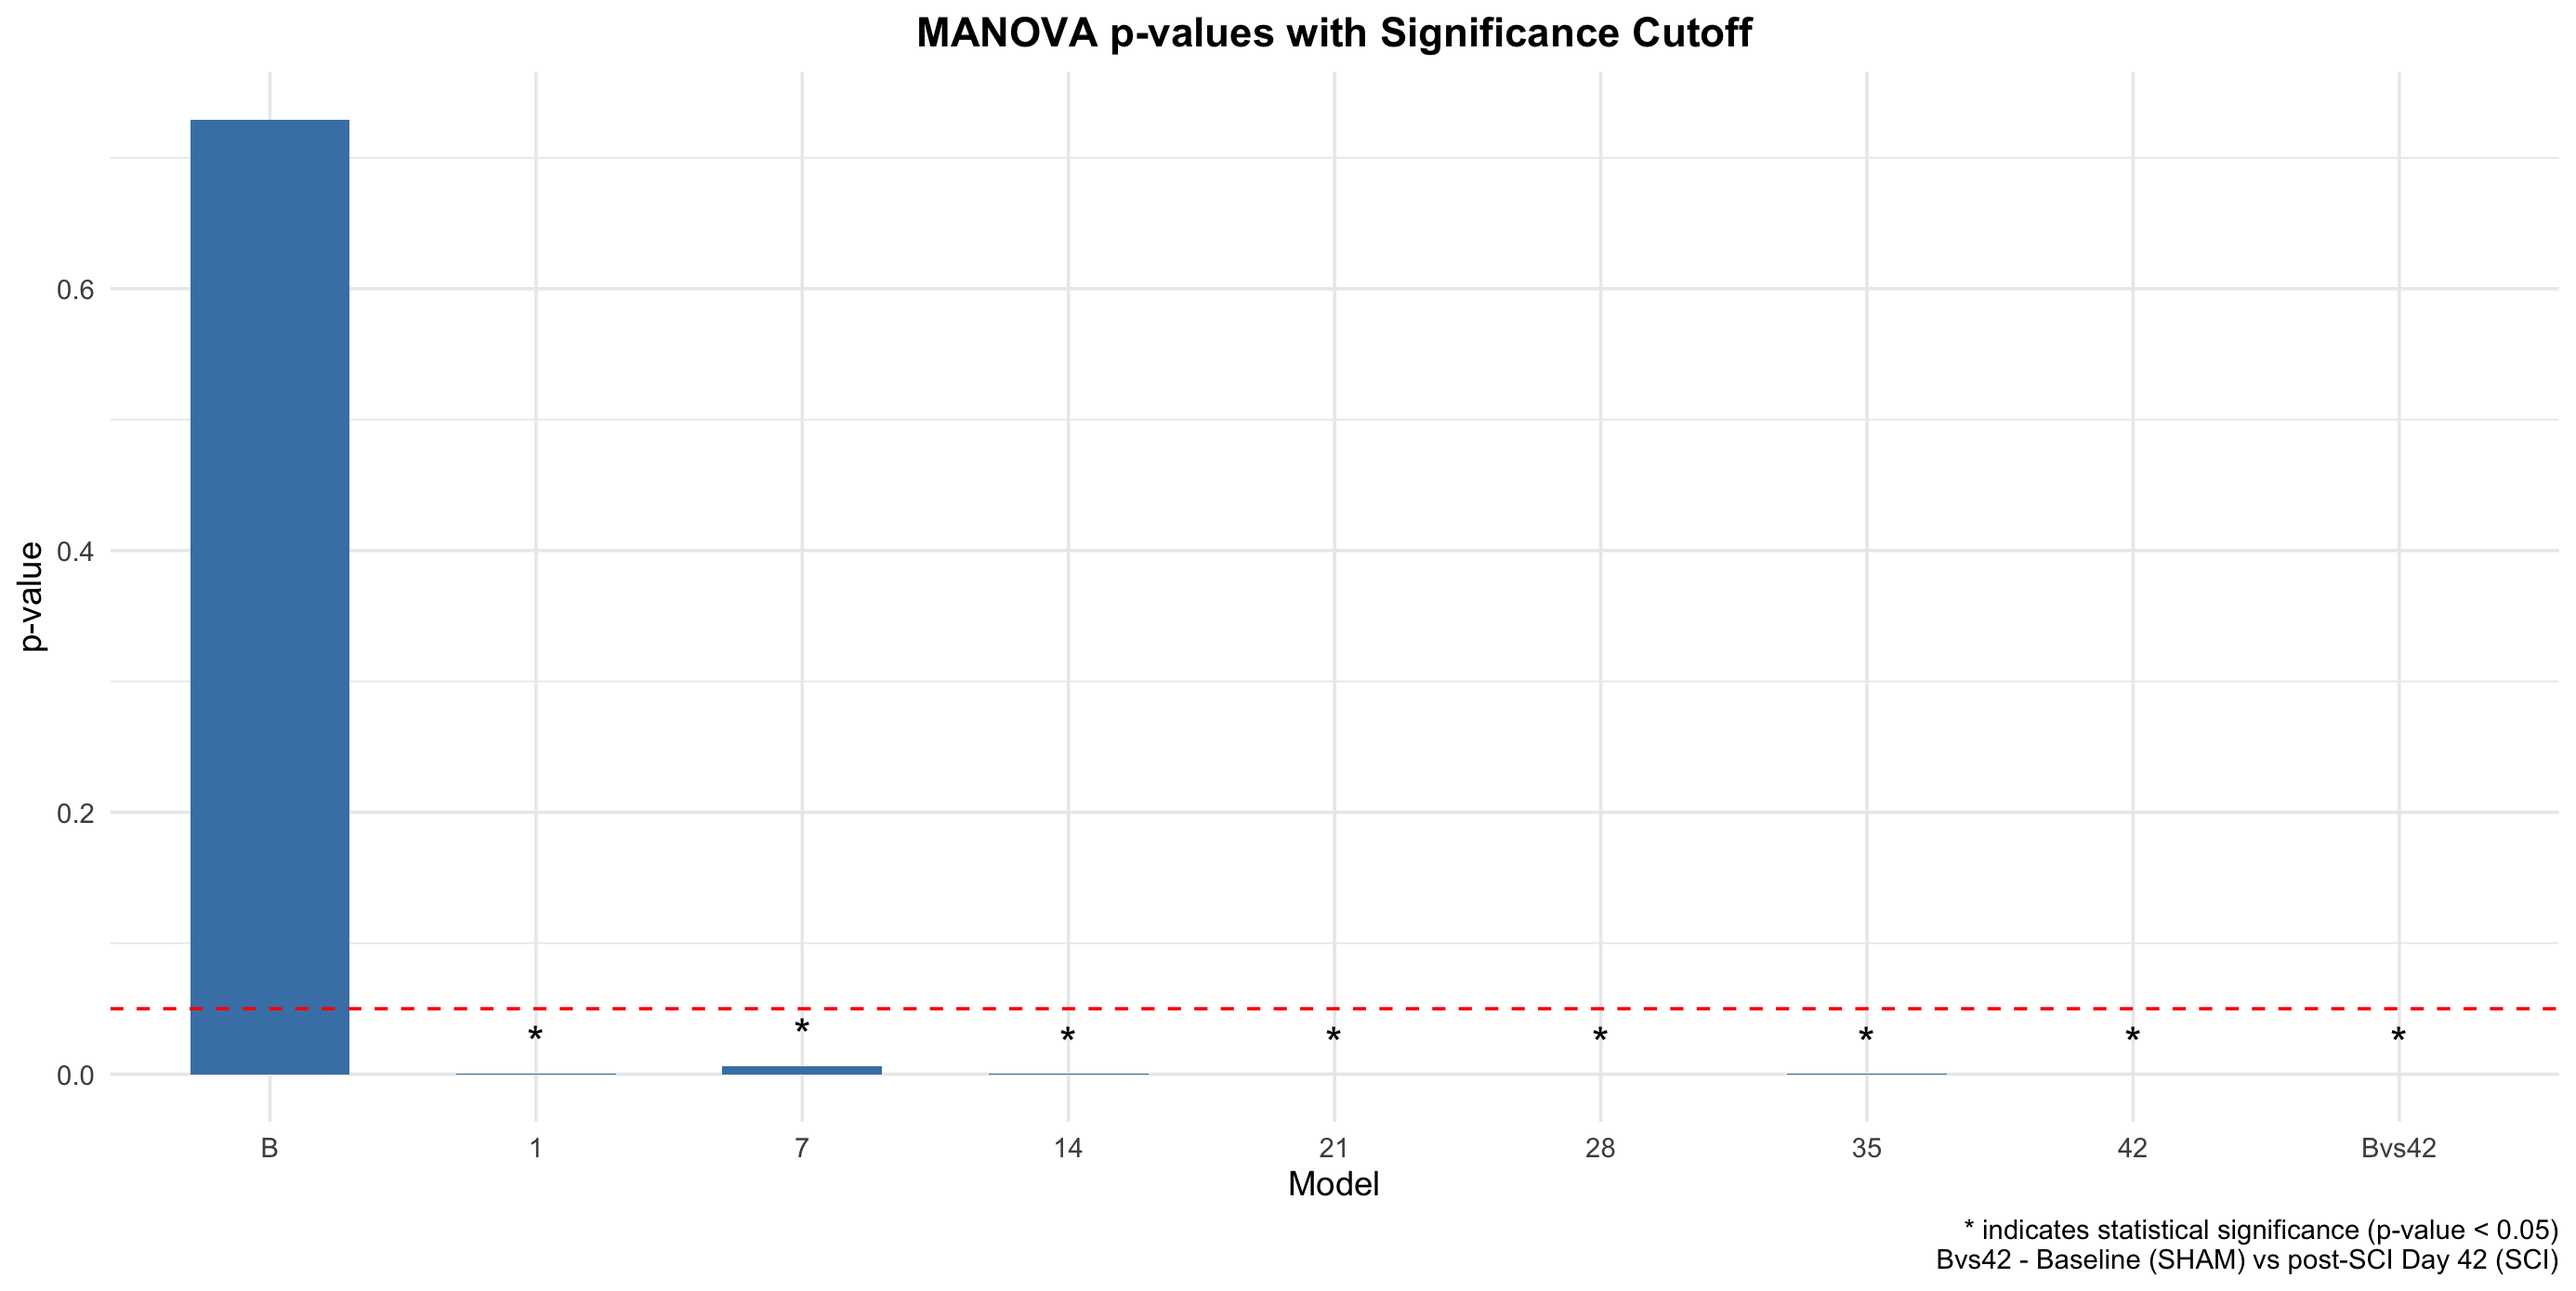
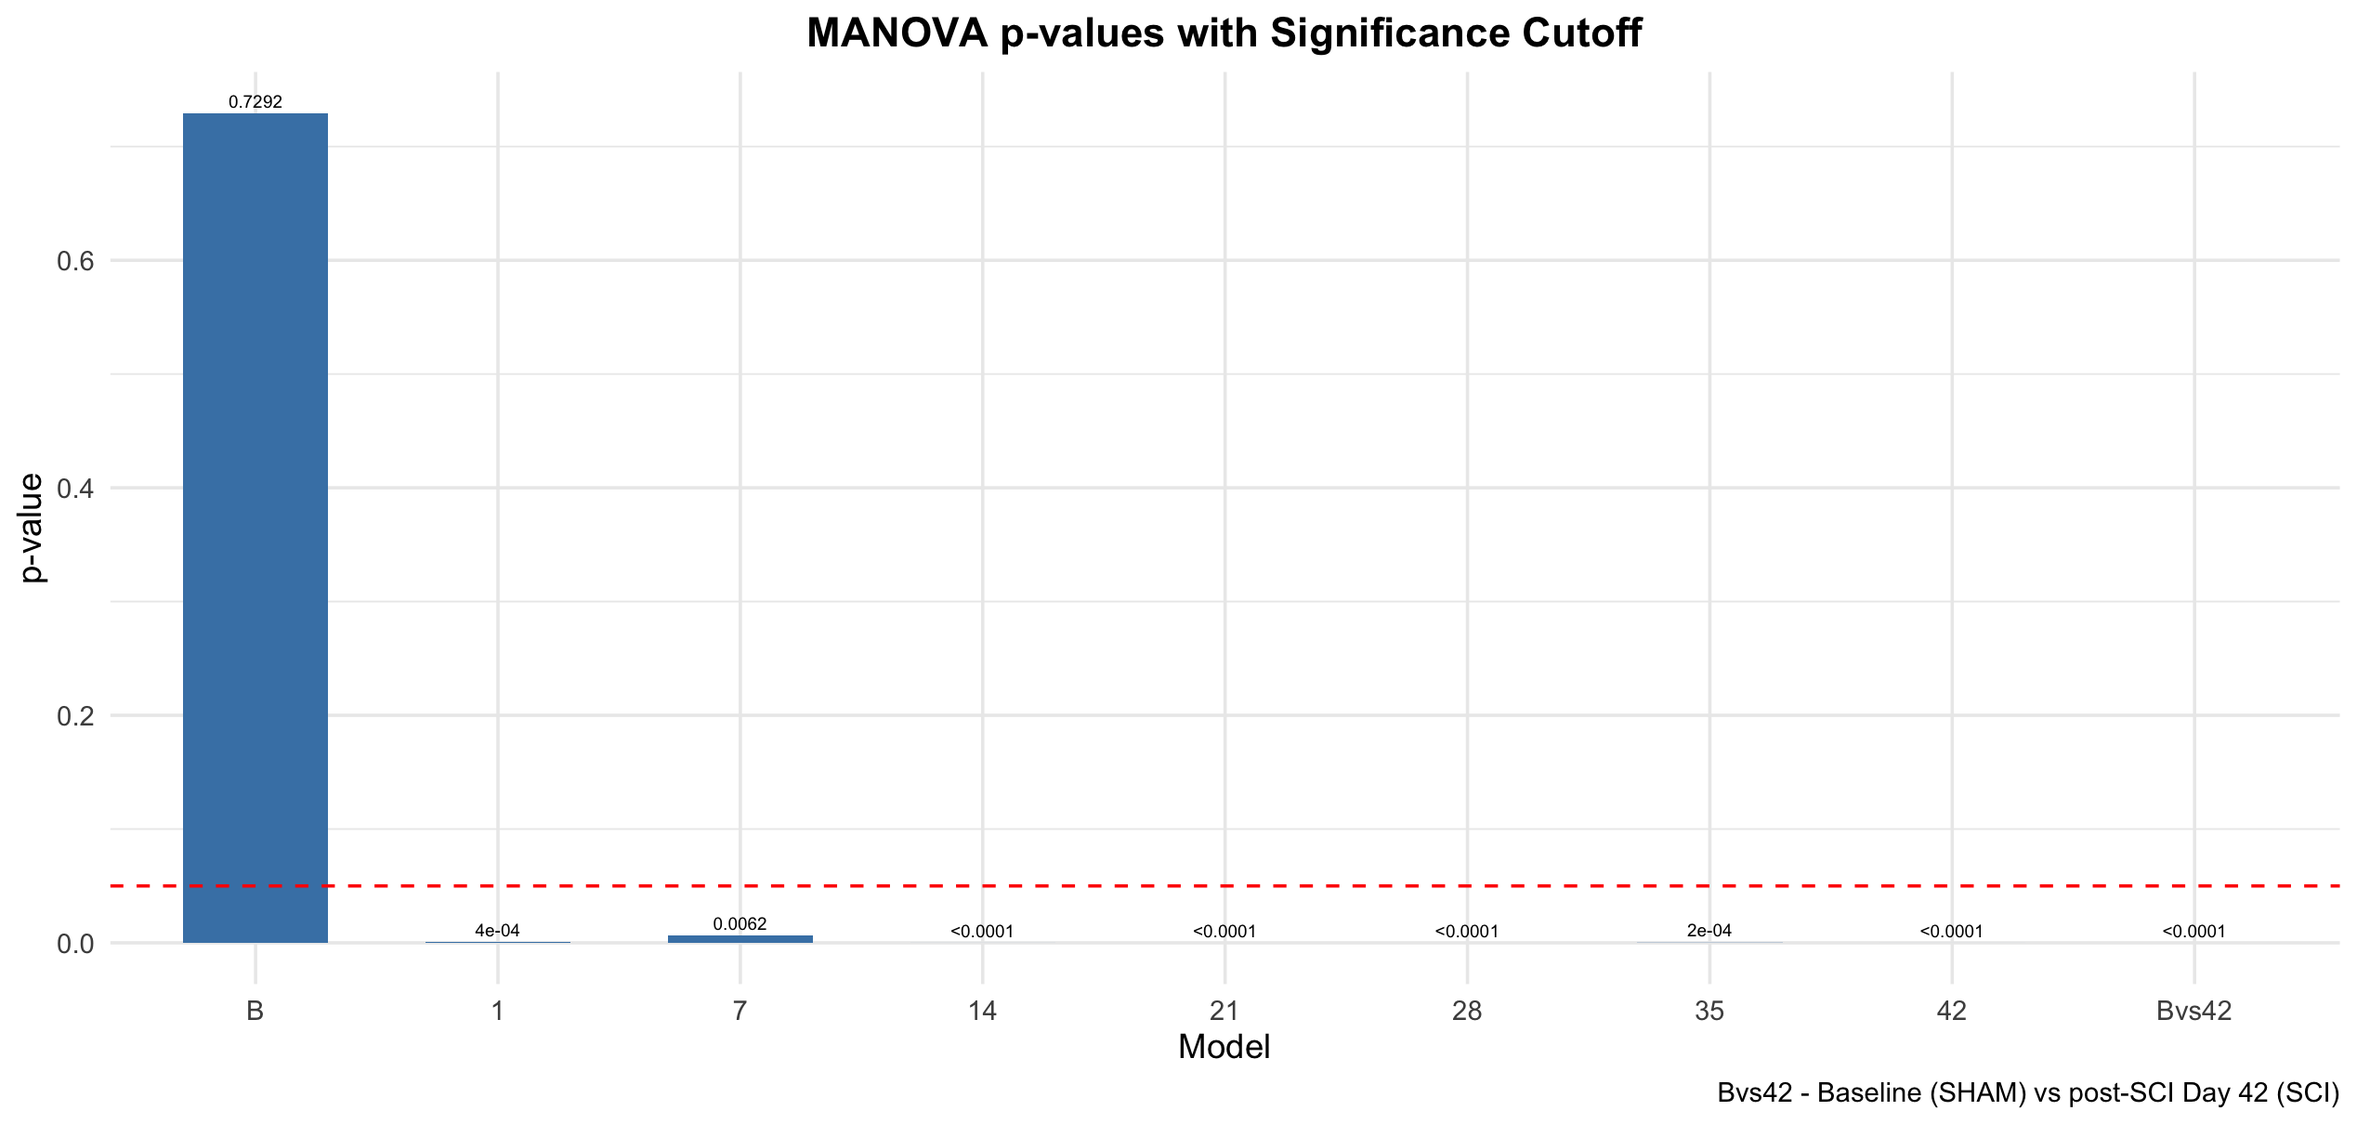
Update PCA

diff --git a/PCA/Blackbox_PCA.md b/PCA/Blackbox_PCA.md
@@ -154,7 +154,7 @@ manova_analysis <- function() {
   
   manova_models_list <- manova_tests()
   manova_models_list[["Bvs42"]] <-
-    manova(cbind(PC1, PC2) ~ Model, data = pca_df[
+    manova(cbind(PC1, PC2) ~ Sample, data = pca_df[
       (pca_df$Sample == "B" & pca_df$Model == "SHAM") |
         (pca_df$Sample == "42" & pca_df$Model == "SCI"),
     ])
@@ -166,7 +166,7 @@ manova_analysis <- function() {
   
   for (model_name in names(manova_models_list)) {
     manova_summary <- summary(manova_models_list[[model_name]])
-    p_value <- manova_summary$stats["Model", "Pr(>F)"]
+    p_value <- manova_summary$stats[1, "Pr(>F)"]
     manova_pvals_df <- rbind(manova_pvals_df, data.frame(model = model_name, p_value = p_value))
   }
   
@@ -174,22 +174,22 @@ manova_analysis <- function() {
     manova_pvals_df$model,
     levels = c("B", "1", "7", "14", "21", "28", "35", "42", "Bvs42")
   )
-  manova_pvals_df$asterisk <- ifelse(manova_pvals_df$p_value < 0.05, "*", "")
   
+  manova_pvals_df$label <- lapply(manova_pvals_df$p_value, function(pval) {
+    if(pval < 0.0001) "<0.0001" else round(pval, digits=4)
+  })
+
   assign("manova_pvals_df", manova_pvals_df, envir=.GlobalEnv)
   
   ggplot(manova_pvals_df, aes(x = model, y = p_value)) +
     geom_bar(stat = "identity", fill = "steelblue", width = 0.6) +
     geom_hline(yintercept = 0.05, linetype = "dashed", color = "red") +
-    geom_text(aes(label = asterisk), vjust = -0.5, color = "black", size = 5) +
+    geom_text(aes(label = label), vjust = -0.5, color = "black", size = 2) +
     labs(
       x = "Model",
       y = "p-value",
       title = "MANOVA p-values with Significance Cutoff",
-      caption =
-        "* indicates statistical significance (p-value < 0.05)
-    Bvs42 - Baseline (SHAM) vs post-SCI Day 42 (SCI)"
-    ) +
+      caption = "Bvs42 - Baseline (SHAM) vs post-SCI Day 42 (SCI)") +
     theme_minimal() +
     theme(plot.title = element_text(face="bold", hjust = 0.5))
 }
